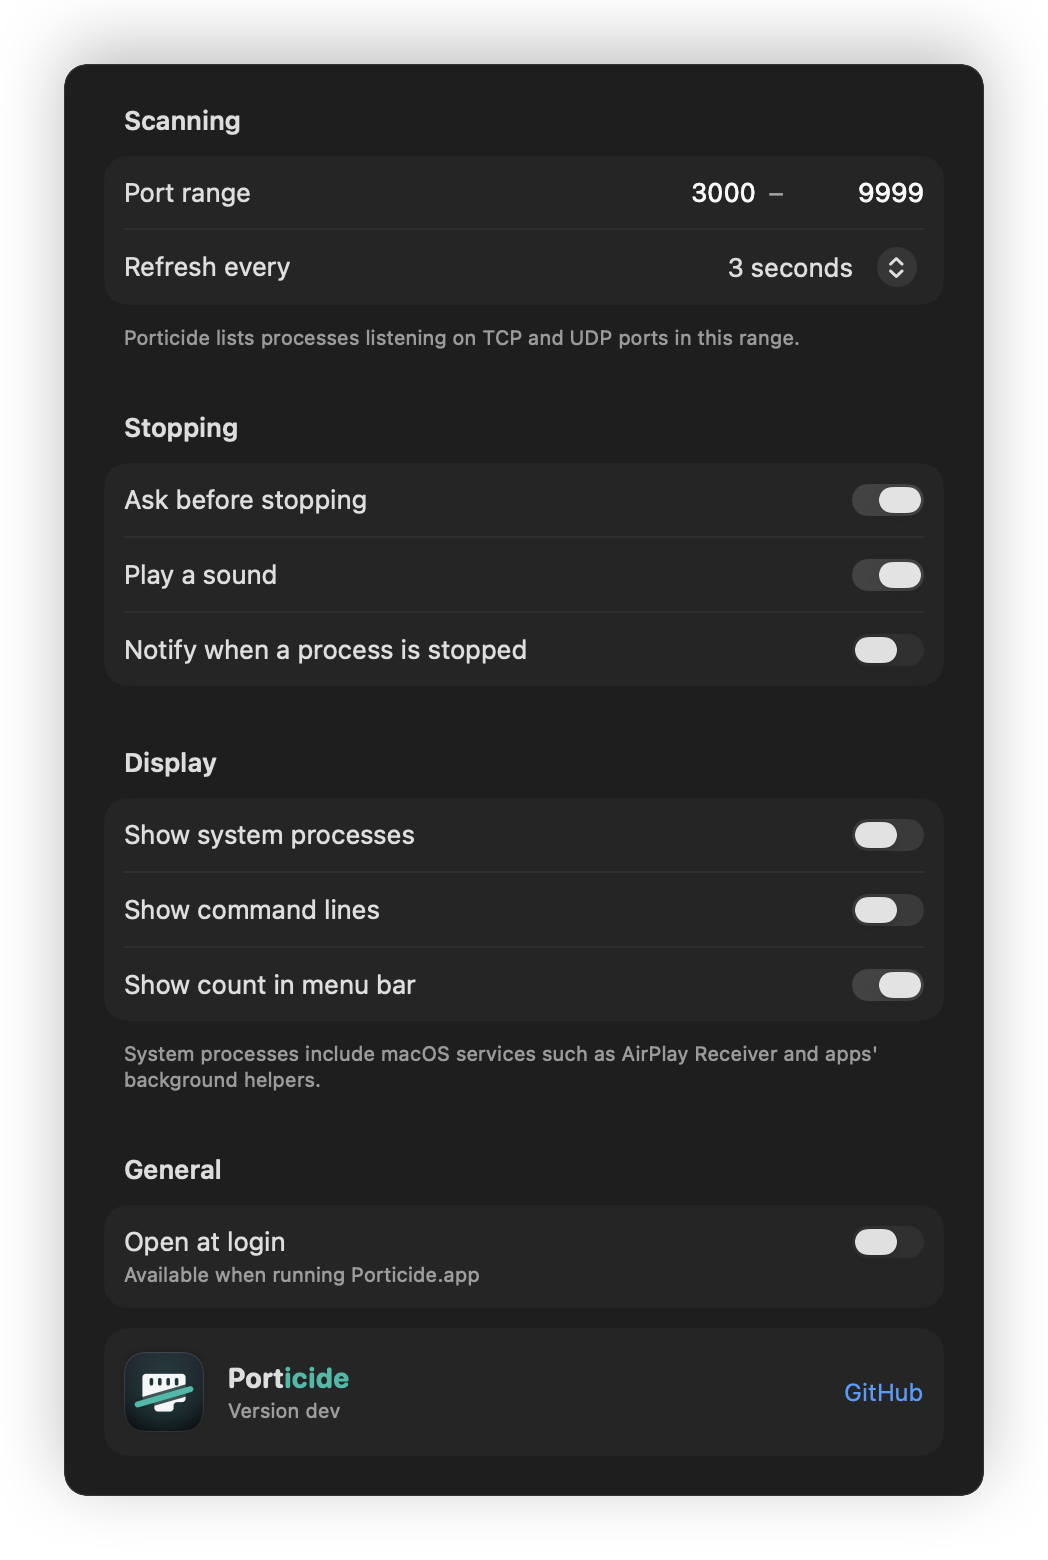
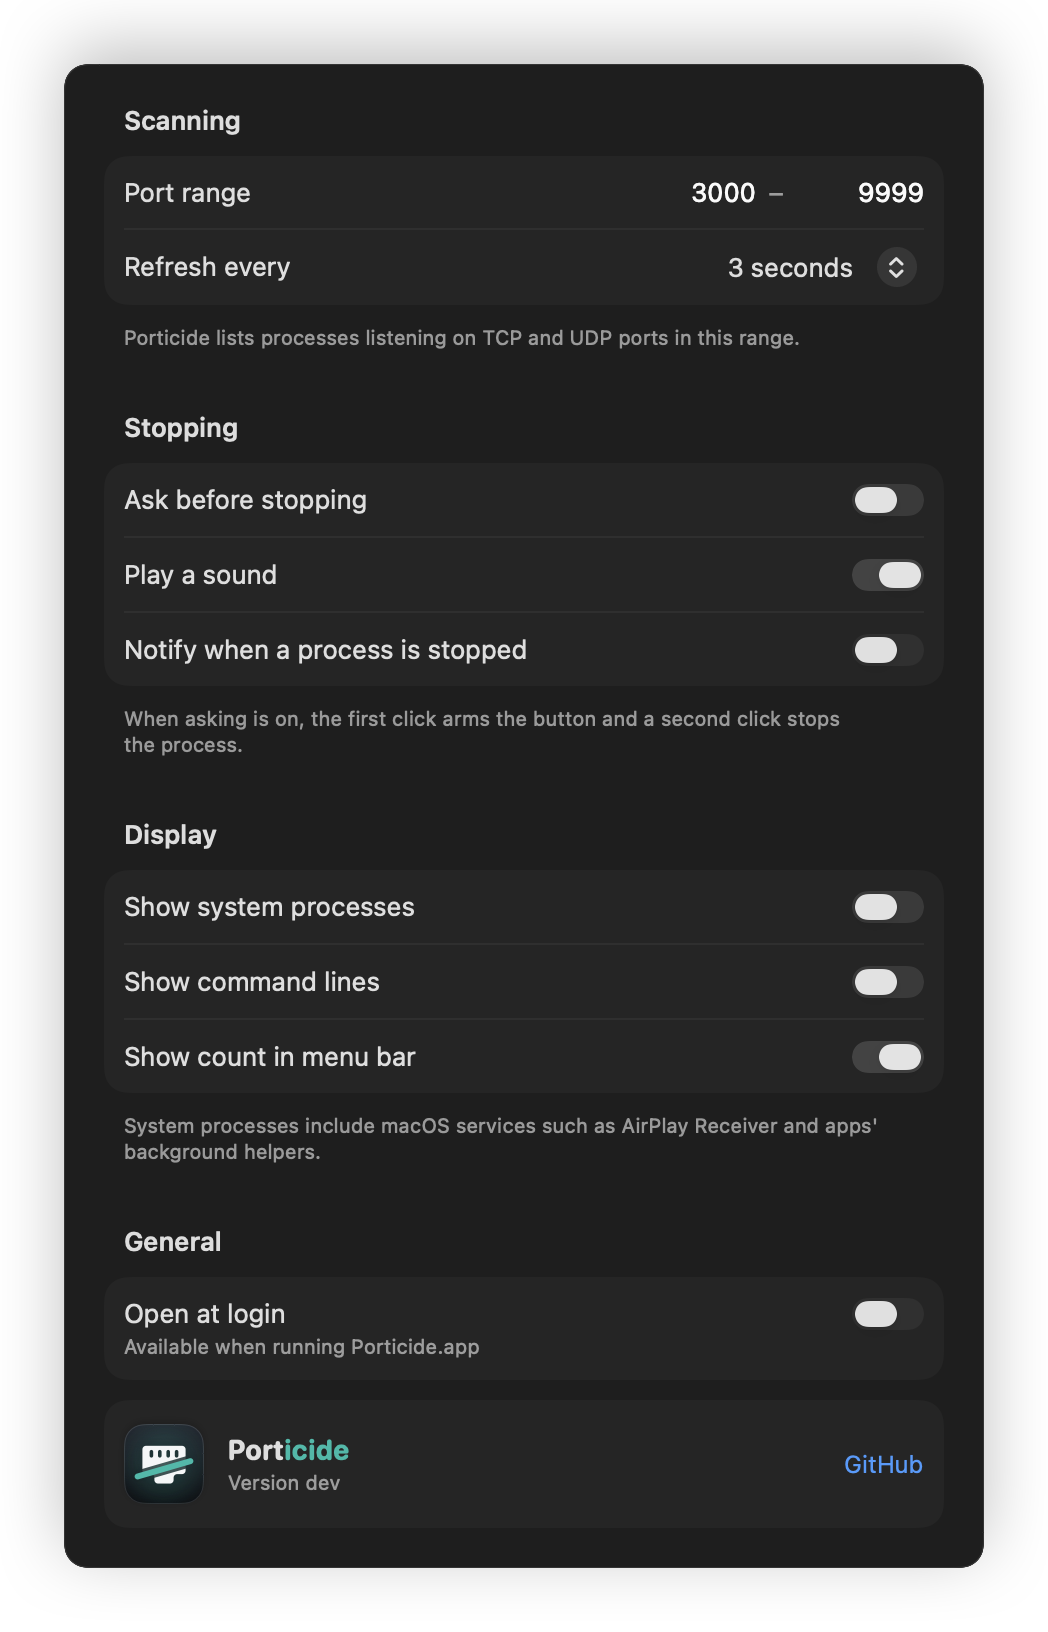
docs: describe one-click stopping and launchd services
Explain that services kept alive by launchd are stopped through
launchctl, that confirmations and errors are inline, and that Bonjour
sockets are filtered out. Regenerate the README images.

diff --git a/README.md b/README.md
@@ -35,8 +35,9 @@ Porticide lives in the menu bar, shows every dev server that's listening, tells 
 ## Features
 
 - **Knows your stack.** Recognises 38 dev servers, databases and tools (Vite, Next.js, Django, FastAPI, Rails, PostgreSQL, Redis, Docker, Ollama and more) and shows each one's logo, version and project folder.
-- **One click to stop.** Sends `SIGTERM`; <kbd>⌥</kbd>-click sends `SIGKILL`. **Stop All** clears everything at once. If a process belongs to another user, Porticide tells you the exact `sudo kill` to run instead of failing silently.
-- **Only what matters.** macOS services (AirPlay Receiver on 5000/7000, Control Center…) and app helpers are hidden by default. Groups servers into *Dev Servers*, *Databases* and *Services*.
+- **One click to stop, and it stays stopped.** Sends `SIGTERM` (<kbd>⌥</kbd>-click for `SIGKILL`). Services kept alive by launchd, like `brew services` or background gateways, are stopped through `launchctl` so they don't come back 10 seconds later. If something else restarts a server (nodemon, pm2…), Porticide names it and offers to stop it too.
+- **Never in your way.** No dialogs: confirmations (off by default) and errors appear inline, so the popover stays open. If a process belongs to another user, you get the exact `sudo kill` command to copy.
+- **Only what matters.** macOS services (AirPlay Receiver on 5000/7000, Control Center…), app helpers and shared Bonjour sockets are hidden by default. Servers are grouped into *Dev Servers*, *Databases* and *Services*.
 - **Handy shortcuts.** Open `localhost:<port>` in the browser, reveal the project in Finder, open it in Terminal, copy the URL or PID.
 - **Quietly native.** SwiftUI and AppKit, no dependencies. Shows the busy-port count in the menu bar, can open at login and can notify you when a process stops.
 - **Light on resources.** One `lsof` call per scan; everything else is read straight from the kernel with `libproc` and `sysctl`, and cached per process.
@@ -73,13 +74,13 @@ make install    # builds Porticide.app and copies it to /Applications
 | Action | How |
 | --- | --- |
 | Show busy ports | Click the icon in the menu bar |
-| Stop a server | Click <kbd>⊗</kbd> next to its port |
+| Stop a server | Click <kbd>⊗</kbd> next to its port (with *Ask before stopping* on, click the red **Stop** that appears) |
 | Force quit (`SIGKILL`) | <kbd>⌥</kbd>-click <kbd>⊗</kbd>, or right-click → **Force Quit** |
 | Open in the browser | Hover a row and click the Safari icon |
 | More actions | Right-click a row |
 | Refresh / Settings / Quit | <kbd>⌘R</kbd> / <kbd>⌘,</kbd> / <kbd>⌘Q</kbd> while the popover is open |
 
-Settings let you change the scanned port range (3000–9999 by default), the refresh interval, confirmations, sounds, notifications and whether system processes are shown.
+Settings let you change the scanned port range (3000–9999 by default), the refresh interval, whether to ask before stopping, sounds, notifications and whether system processes are shown.
 
 ## How it works
 
@@ -90,6 +91,7 @@ flowchart LR
     kernel["libproc / sysctl<br/>path · cwd · argv"] --> scanner
     scanner --> classifier[ServiceClassifier]
     scanner --> locator["ProjectLocator<br/>(nearest git root)"]
+    launchd["launchctl list"] --> scanner
     scanner --> filter[PortFilter]
     filter --> ui["Menu bar popover<br/>(SwiftUI)"]
 ```
@@ -97,7 +99,8 @@ flowchart LR
 1. **Discover.** `lsof -nP -iTCP -sTCP:LISTEN -iUDP -F cLPn` lists listening sockets in lsof's field format, which, unlike the table, never truncates process names.
 2. **Inspect.** For each new PID, the executable path (`proc_pidpath`), working directory (`proc_pidinfo`) and arguments (`sysctl(KERN_PROCARGS2)`) come straight from the kernel, with no `ps` or extra `lsof` per process. The project is the nearest git root above the working directory, worktrees included.
 3. **Classify.** Rules match the *file names* of the executable and its arguments (`node …/.bin/vite` → Vite), so `bundle exec` is never mistaken for Bun. Unknown processes get a hint from well-known ports (`5173` → *usually Vite*).
-4. **Filter.** Other users' processes, macOS system paths and app helpers are hidden; Homebrew services such as PostgreSQL stay visible.
+4. **Filter.** Other users' processes, macOS system paths, app helpers and multicast DNS sockets are hidden; Homebrew services such as PostgreSQL stay visible.
+5. **Stop.** Plain processes get a signal. Processes that `launchctl list` attributes to a LaunchAgent are booted out of launchd instead, since `KeepAlive` would restart them.
 
 ### Project structure
 
